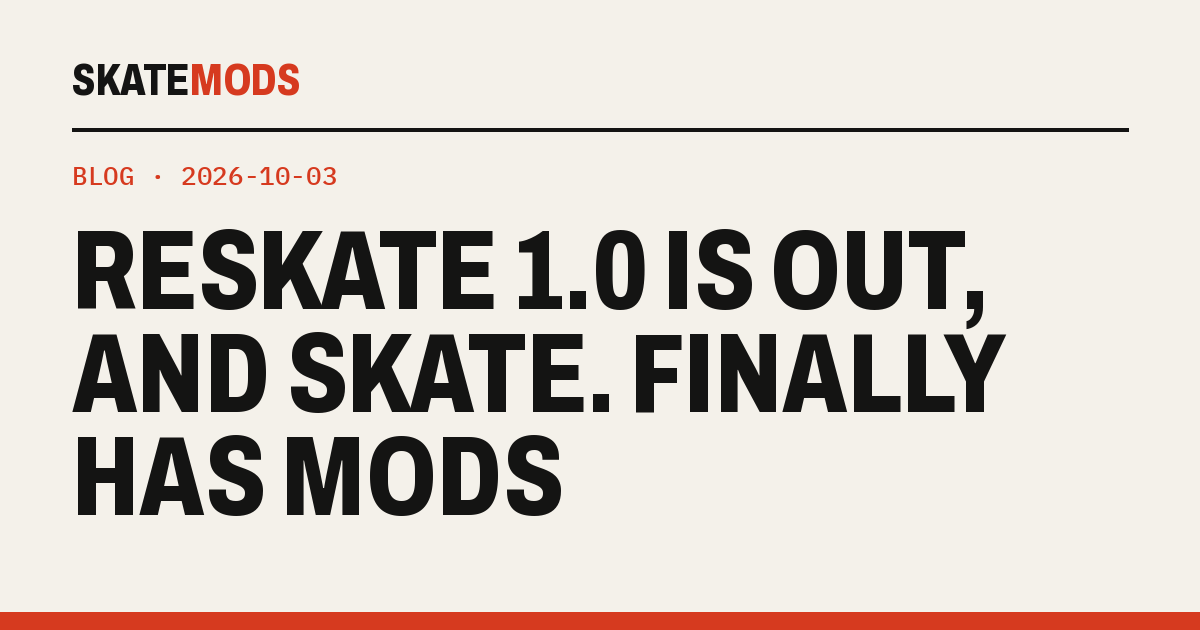
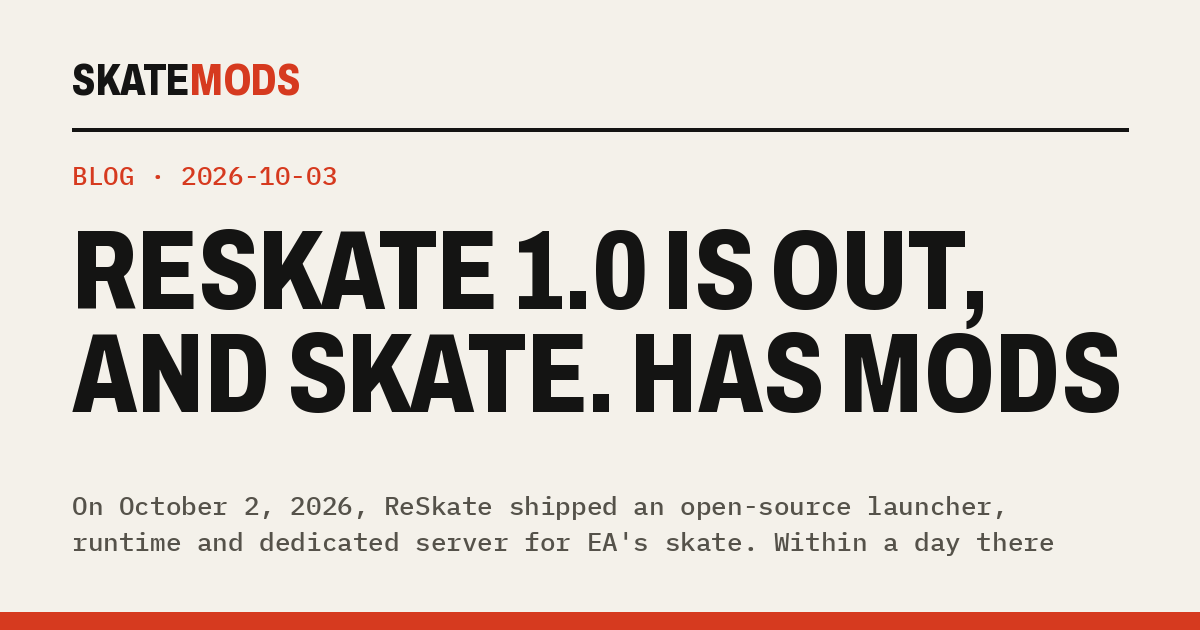
Slop pass: tighten prose site-wide, drop placeholder tiles, fix meta wrapping
Cut dramatic setups, contrast framing, rhetorical transitions and hype words
across guides, FAQ, games, histories, blog and page copy, with no change to
facts or links. Community: remove letter placeholders, split member/online
counts. Guides index: wider meta column. Clarify 216 vs 192 current mods.

Changed region(s): [[0.0617, 0.6937, 0.8325, 0.8746], [0.5242, 0.5127, 0.9558, 0.6635], [0.6475, 0.8444, 0.8942, 0.8746]]

diff --git a/apps/web/src/data/tools.ts b/apps/web/src/data/tools.ts
@@ -25,14 +25,14 @@ export const tools: Tool[] = [
   // Skate 3: ports
   { name: 'skate3recomp', by: 'mchughalex', game: 'skate-3', kind: 'port', open: true, url: 'https://github.com/mchughalex/skate3recomp', what: 'Native recompilation for Windows, Linux and macOS, with a D3D12/Vulkan renderer since v2.0.' },
   { name: 'SK8-Engine', by: 'Nakas', game: 'skate-3', kind: 'port', open: true, url: 'https://github.com/andrewnakas/SK8-Engine', what: 'The recompilation, extended toward an all-in-one cross-platform, multiplayer build.' },
-  { name: 'Skate3-Mobile', by: 'Buku313', game: 'skate-3', kind: 'port', open: true, url: 'https://github.com/Buku313/Skate3-Mobile', what: 'ARM64 Android build with Vulkan rendering. One APK, your own ISO.' },
+  { name: 'Skate3-Mobile', by: 'Buku313', game: 'skate-3', kind: 'port', open: true, url: 'https://github.com/Buku313/Skate3-Mobile', what: 'ARM64 Android build with Vulkan rendering, shipped as one APK that uses your own ISO.' },
   { name: 'skate3-android', by: 'Nakas', game: 'skate-3', kind: 'port', open: true, url: 'https://github.com/andrewnakas/skate3-android', what: 'Android shell for the recomp: setup, map packs and GPU driver management.' },
   { name: 'skate3-ios-setup', by: 'Nakas', game: 'skate-3', kind: 'port', open: true, url: 'https://github.com/andrewnakas/skate3-ios-setup', what: 'Build the recompilation for iOS from your own disc image.' },
   { name: 'Skate 3 Rust engine', by: 'SK8-ENGINE', game: 'skate-3', kind: 'port', open: true, url: 'https://github.com/SK8-ENGINE/skate-3-rust-engine', what: 'Rust and Bevy reimplementation with .skate maps, a Lua mod SDK, vehicles and multiplayer mods.' },
   { name: 'Skate 3 clean room (web)', by: 'Nakas', game: 'skate-3', kind: 'port', open: true, url: 'https://github.com/andrewnakas/skate3-cleanroom', what: 'The Rust engine on WebGPU with a regenerated asset pack, playable in a browser.' },
   { name: 'skate3-quest-ar', by: 'Nakas', game: 'skate-3', kind: 'port', open: true, url: 'https://github.com/andrewnakas/skate3-quest-ar', what: 'The Rust engine on Meta Quest 3 in passthrough AR: a miniature skater in your room.' },
   // Skate 3: maps
-  { name: 'Skate 3 Level Loader', by: 'Nakas', game: 'skate-3', kind: 'maps', open: true, url: 'https://github.com/andrewnakas/skate3-level-loader', what: 'Map library and launcher for the recomp. Import packs, click a map, skate.' },
+  { name: 'Skate 3 Level Loader', by: 'Nakas', game: 'skate-3', kind: 'maps', open: true, url: 'https://github.com/andrewnakas/skate3-level-loader', what: 'Map library and launcher for the recomp. Import packs, then pick a map to boot into it.' },
   { name: 'PS3 → X360 transcoder', by: 'Nakas', game: 'skate-3', kind: 'maps', open: true, url: 'https://github.com/andrewnakas/skate3-ps3-to-x360', what: 'Rebuilds PS3 map streams in Xbox 360 form and packages standalone DLC.' },
   { name: 'PS3 Map Importer', by: 'randyadr, Nakas, Dumbads', game: 'skate-3', kind: 'maps', open: true, url: 'https://github.com/andrewnakas/skate3-ps3-map-importer', what: 'Windows GUI: drop a PS3 map archive, get an installable recomp .big.' },
   { name: 'DumbadsSkate3ModdingTools', by: 'Dumbads (Ethanw05)', game: 'skate-3', kind: 'maps', open: true, url: 'https://github.com/Ethanw05/DumbadsSkate3ModdingTools', what: 'ArenaBuilder, DlcBuilder and ChallengeEditor: read and write arenas, build DLC.' },

diff --git a/apps/web/src/data/hubs.ts b/apps/web/src/data/hubs.ts
@@ -20,7 +20,7 @@ export const hubs: Hub[] = [
   { name: 'Session (crea-ture Studios)', game: 'session', scene: 'session', kind: 'discord', invite: 'session', what: 'The official Session: Skate Sim server, with channels for maps and mods.' },
   { name: 'THPSPro', game: 'thps-1-2', scene: 'thps-pro', kind: 'discord', invite: 'G9A8xWq9Hw', what: 'Mods for the THPS 1+2 and 3+4 remakes, and the THPSPro project.' },
   { name: 'THUG Pro community', game: 'tony-hawk-classic', scene: 'thug-pro', kind: 'discord', invite: 'KateaQP', what: 'The Discord linked from thugpro.com: online sessions, custom levels and help.' },
-  { name: 'ReSkate Thunderstore', game: 'skate-2025', kind: 'mods', url: 'https://thunderstore.io/c/reskate/', what: 'Every ReSkate mod. Browse it here on skate. mods, or in the ReSkate launcher.' },
+  { name: 'ReSkate Thunderstore', game: 'skate-2025', kind: 'mods', url: 'https://thunderstore.io/c/reskate/', what: 'Every ReSkate mod, browsable here on skate. mods or in the ReSkate launcher.' },
   { name: 'Skater XL on mod.io', game: 'skater-xl', scene: 'skater-xl', kind: 'mods', url: 'https://mod.io/g/skaterxl', what: 'Maps and gear for Skater XL, also available in the game\'s own Mod Browser.' },
   { name: 'THPSX forums', game: 'tony-hawk-classic', scene: 'thug-pro', kind: 'forum', url: 'https://thpsx.com/', what: 'The long-running Tony Hawk\'s community site, with forums, the THPSX podcast and THUG Pro history.' },
 ];

diff --git a/apps/web/src/data/skate3-timeline.ts b/apps/web/src/data/skate3-timeline.ts
@@ -128,7 +128,7 @@ export const timeline: Event[] = [
   {
     date: '2026-06-17', era: 'native',
     title: 'Skate 3 on Android',
-    body: 'An ARM64 recompilation with Vulkan rendering: one APK, your own ISO.',
+    body: 'An ARM64 recompilation with Vulkan rendering, shipped as one APK that uses your own ISO.',
     who: 'Buku313',
     source: 'https://github.com/Buku313/Skate3-Mobile',
   },

diff --git a/apps/web/src/content/blog/reskate-launch.md b/apps/web/src/content/blog/reskate-launch.md
@@ -1,5 +1,5 @@
 ---
-title: ReSkate 1.0 is out, and skate. finally has mods
+title: ReSkate 1.0 is out, and skate. has mods
 description: On October 2, 2026, ReSkate shipped an open-source launcher, runtime and dedicated server for EA's skate. Within a day there were custom maps from Skate 3, skate 2 and Skater XL, community servers, two hotfixes and nearly 2,900 people in its Discord.
 date: 2026-10-03
 author: skatemods
@@ -9,13 +9,13 @@ related: [guides/play-skate-with-reskate, guides/host-a-reskate-server, history/
 
 For a year, the answer to "can you mod the new skate.?" was no. EA's free-to-play revival is online-only, sits behind Javelin kernel anti-cheat, and changes with every live-service patch. Its user agreement calls mods unauthorized third-party programs. While the 2010 game got a native PC port and a fully writable world format, the newest game in the series stayed closed.
 
-That changed on **Friday, October 2, 2026**. [ReSkate](https://github.com/Dingo-Shenanigans/ReSkate), from the Dingo Shenanigans team led by **zeex64**, published its source in the morning and shipped **v1.0.0** that afternoon. "Welcome to ReSkate!" the announcement in [its Discord](https://discord.gg/Tkd5D2Y6EX) began. It called the project "a modding platform for skate.: play offline, skate custom maps, host lobbies with your friends and build your own spots, parks and skins."
+On **Friday, October 2, 2026**, [ReSkate](https://github.com/Dingo-Shenanigans/ReSkate), from the Dingo Shenanigans team led by **zeex64**, published its source in the morning and shipped **v1.0.0** that afternoon. "Welcome to ReSkate!" the announcement in [its Discord](https://discord.gg/Tkd5D2Y6EX) began. It called the project "a modding platform for skate.: play offline, skate custom maps, host lobbies with your friends and build your own spots, parks and skins."
 
 ## The trick: freeze the game
 
-ReSkate doesn't fight the live service. It sidesteps it. The launcher checks your Steam copy of skate. against **one pinned build** (Steam build `25414733`). If the game is missing or Steam has updated past that build, it signs in to Steam and downloads exactly the files it needs. Then it loads `ReSkate.dll` into the game. You play offline, with no EA servers involved, and your skater, outfits, unlocks and progress live on your PC.
+ReSkate leaves the live service alone. The launcher checks your Steam copy of skate. against **one pinned build** (Steam build `25414733`). If the game is missing or Steam has updated past that build, it signs in to Steam and downloads exactly the files it needs. Then it loads `ReSkate.dll` into the game. You play offline, with no EA servers involved, and your skater, outfits, unlocks and progress live on your PC.
 
-Freezing the game build is what makes everything else possible. Every mod targets the same build, every address the runtime patches is kept in a per-build table, and hooks check the bytes they expect before touching anything. When ReSkate moves to a new build, mods made for the old one are skipped with a message instead of breaking the game.
+Everything else depends on that frozen build. Every mod targets the same build, every address the runtime patches is kept in a per-build table, and hooks check the bytes they expect before touching anything. When ReSkate moves to a new build, mods made for the old one are skipped with a message instead of breaking the game.
 
 ## What shipped
 
@@ -29,9 +29,9 @@ In game, multiplayer means 32-player Steam lobbies, an in-game server browser, p
 
 ## Day one on Thunderstore
 
-The mod list from the first day says more than any feature list could. Thirteen mods went up on the [ReSkate Thunderstore](https://thunderstore.io/c/reskate/), and most of them are cities and parks from other games:
+Thirteen mods went up on the [ReSkate Thunderstore](https://thunderstore.io/c/reskate/) on the first day, and most of them are cities and parks from other games:
 
-- **[The full Skate 3 map](https://thunderstore.io/c/reskate/p/zeex64/Full_Skate_3_Map/)**, ported by zeex64. Port Carverton, in the engine of the game that replaced it. It was the most downloaded mod of day one.
+- **[The full Skate 3 map](https://thunderstore.io/c/reskate/p/zeex64/Full_Skate_3_Map/)**, ported by zeex64, puts Port Carverton in the engine of the game that replaced it. It was the most downloaded mod of day one.
 - **[New San Vanelona](https://thunderstore.io/c/reskate/p/brassy/Skate2Map/)** from skate 2, ported by brassy.
 - **[Losal Streets](https://thunderstore.io/c/reskate/p/TeamMeebs/Losal_Streets/)** from [Skater XL](/history/skater-xl/), by TeamMeebs.
 - Three maps by **Yaky**, a map maker the Skater XL scene already knows: [Shred Cavern](https://thunderstore.io/c/reskate/p/zeex64/Shred_Cavern_By_Yaky/), [The Lost Loop](https://thunderstore.io/c/reskate/p/zeex64/The_Lost_Loop_By_Yaky/), and [Desert Springs](https://thunderstore.io/c/reskate/p/memori/Desert_Springs/), ported from BMX Streets by memori.
@@ -42,13 +42,13 @@ The maps are built with ReSkate Studio, the project's map tool. Each one ships a
 
 ## The first 24 hours
 
-Launches break things, and ReSkate's fixes came fast. **1.0.1** made the launcher warn when Steam isn't running or signed in. Without Steam, PLAY quietly starts offline as "Unknown Player" with no multiplayer. That evening, **[1.0.2](https://github.com/Dingo-Shenanigans/ReSkate/releases/tag/v1.0.2)** fixed a loading crash on older graphics cards like the RX 580 by sizing map streaming memory to each card's VRAM, and made busy servers smoother by updating off-screen players less often. Dedicated servers update themselves once they're empty, so hosts didn't have to do anything.
+The first fixes came the same day. **1.0.1** made the launcher warn when Steam isn't running or signed in. Without Steam, PLAY quietly starts offline as "Unknown Player" with no multiplayer. That evening, **[1.0.2](https://github.com/Dingo-Shenanigans/ReSkate/releases/tag/v1.0.2)** fixed a loading crash on older graphics cards like the RX 580 by sizing map streaming memory to each card's VRAM, and made busy servers smoother by updating off-screen players less often. Dedicated servers update themselves once they're empty, so hosts didn't have to do anything.
 
 By the end of the day, over a thousand people had downloaded the release from GitHub, the full Skate 3 map had passed 750 downloads on Thunderstore, and the [ReSkate Discord](https://discord.gg/Tkd5D2Y6EX) was near **2,900 members**. By the next morning it had passed 3,400. The launch announcement had already answered the question everyone asked first, whether you can get banned: the project's FAQ says you can't. zeex64 also promised a Linux fix for the next day.
 
 ## Where it fits
 
-ReSkate is the newest chapter in a story this site keeps coming back to. Publishers move on and players keep the games alive: [PARTYMOD](/history/partymod/) and [THUG Pro](/history/thug-pro/) for the Tony Hawk's games, the [Skater XL](/history/skater-xl/) modders who built multiplayer before the studio did, and the [Skate 3](/history/skate-3/) scene that recompiled a 2010 console game into a native PC one. Some of the same people are at work again here. The groundwork happened around the Dumbads & SunJays Discord, where Skate 3's world format first became writable.
+ReSkate follows a pattern this site keeps coming back to. Publishers move on and players keep the games alive: [PARTYMOD](/history/partymod/) and [THUG Pro](/history/thug-pro/) for the Tony Hawk's games, the [Skater XL](/history/skater-xl/) modders who built multiplayer before the studio did, and the [Skate 3](/history/skate-3/) scene that recompiled a 2010 console game into a native PC one. Some of the same people are at work again here. The groundwork happened around the Dumbads & SunJays Discord, where Skate 3's world format first became writable.
 
 What's different this time is the target: a live game that EA is still developing. ReSkate is careful about that. It's a fan project "not affiliated with or endorsed by Electronic Arts or Full Circle." You need your own copy of the game, and the project says it's "NOT a replacement for the live game, a way to get paid cosmetics, or a place for leaks." The GPL covers ReSkate's code, not anything from skate. itself, and because it still runs EA's client, EA's terms still apply. The project's README also discloses that parts of its code and reverse-engineering notes were written with AI coding assistants, directed and tested by the maintainers.
 
@@ -60,5 +60,3 @@ What's different this time is the target: a live game that EA is still developin
 - **Mods:** [browse every skate. mod](/reskate/), updated live from Thunderstore.
 - **Talk:** the [ReSkate Discord](https://discord.gg/Tkd5D2Y6EX) for help, bug reports and mod releases.
 - **Download:** [github.com/Dingo-Shenanigans/ReSkate](https://github.com/Dingo-Shenanigans/ReSkate/releases/latest). Get it there, not from a mirror.
-
-skate. took a year to open up, and it was worth the wait.

diff --git a/apps/web/src/content/communities/reskate.md b/apps/web/src/content/communities/reskate.md
@@ -112,7 +112,7 @@ milestones:
     source: https://github.com/andrewnakas/reskate-trainer/releases
   - date: 2026-10-03
     title: '1.0.4: mods merge before PLAY'
-    body: The launcher merges mods before the game starts and names any mod it couldn't merge, instead of leaving it out silently three minutes into a loading screen. The mod manager is rebuilt in a bigger window, settings changed in game finally stick, and Steam is detected under Proton on Linux.
+    body: The launcher merges mods before the game starts and names any mod it couldn't merge, instead of leaving it out silently three minutes into a loading screen. The mod manager is rebuilt in a bigger window, settings changed in game now stick, and Steam is detected under Proton on Linux.
     who: AyeZeeBB
     source: https://github.com/Dingo-Shenanigans/ReSkate/releases/tag/v1.0.4
   - date: 2026-10-04
@@ -162,7 +162,7 @@ links:
 
 ## A way around the live service
 
-[skate.](/games/skate-2025/) is the hardest skate game to mod. It's online-only, free-to-play, protected by [EA Javelin anti-cheat](https://www.ea.com/news/ea-javelin-anticheat-2026-update), and updated constantly, and EA's [user agreement](https://www.ea.com/legal/user-agreement) treats mods as unauthorized third-party programs. ReSkate doesn't try to mod that live game. Its launcher checks your Steam install against one specific build of skate. (Steam build `25414733`), downloads exactly that build with DepotDownloader if it has to, and loads a community runtime, `ReSkate.dll`, on top. Every mod targets the same fixed version of the game, and nobody connects to EA's servers.
+[skate.](/games/skate-2025/) is the hardest skate game to mod. It's online-only, free-to-play, protected by [EA Javelin anti-cheat](https://www.ea.com/news/ea-javelin-anticheat-2026-update), and updated constantly, and EA's [user agreement](https://www.ea.com/legal/user-agreement) treats mods as unauthorized third-party programs. ReSkate leaves that live game alone. Its launcher checks your Steam install against one specific build of skate. (Steam build `25414733`), downloads exactly that build with DepotDownloader if it has to, and loads a community runtime, `ReSkate.dll`, on top. Every mod targets the same fixed version of the game, and nobody connects to EA's servers.
 
 The game's own settings and saves live in a separate folder from the normal game's, and your skater, outfits, unlocks and progress are kept on your PC ([README](https://github.com/Dingo-Shenanigans/ReSkate#readme)).
 
@@ -174,7 +174,7 @@ ReSkate went public on **October 2, 2026**. The [source](https://github.com/Ding
 - **`ReSkate.dll`** is the runtime the launcher loads into the game.
 - **`ReSkateServer.exe`** is a headless dedicated server that needs neither the game nor Steam installed.
 
-The launch announcement on the [ReSkate Discord](https://discord.gg/Tkd5D2Y6EX) called it "a modding platform for skate.: play offline, skate custom maps, host lobbies with your friends and build your own spots, parks and skins." By that night the server had nearly 2,900 members, and by the next morning more than 3,400. On October 5 it passed **19,000**. The announcement also answered the most-asked question: can you get banned? The project's FAQ says you can't. A Linux fix was promised for the following day.
+The launch announcement on the [ReSkate Discord](https://discord.gg/Tkd5D2Y6EX) called it "a modding platform for skate.: play offline, skate custom maps, host lobbies with your friends and build your own spots, parks and skins." By that night the server had nearly 2,900 members, and by the next morning more than 3,400. On October 5 it passed **19,000**. The announcement also answered the most-asked question, whether you can get banned: the project's FAQ says you can't. A Linux fix was promised for the following day.
 
 ## What's in it
 
@@ -208,9 +208,9 @@ Mods are distributed through a [Thunderstore community](https://thunderstore.io/
 | [gm_mcdonalds](https://thunderstore.io/c/reskate/p/crowkrow/gm_mcdonalds/), [Bo2 Grind](https://thunderstore.io/c/reskate/p/relsmodding/Bo2_Grind/) | crowkrow, relsmodding | Maps from Garry's Mod and Black Ops 2 |
 | [Supreme Box Tee](https://thunderstore.io/c/reskate/p/akia47/SupremeBoxTee/) | akia47 | A custom cosmetic |
 
-The list says a lot about who showed up. Skate 3, skate 2, Skater XL and BMX Streets maps all landed in skate. on day one, made by people from the [Skate 3](/history/skate-3/) and [Skater XL](/history/skater-xl/) scenes.
+Skate 3, skate 2, Skater XL and BMX Streets maps all landed in skate. on day one, made by people from the [Skate 3](/history/skate-3/) and [Skater XL](/history/skater-xl/) scenes.
 
-Then it exploded. By **October 5** there were **216 mods** and more than **326,000 downloads**. Maps lead the chart, but cosmetics (whole Carhartt, Nike SB and Supreme collections, and packs of hundreds of brand colourways) and soundtracks came close behind:
+By **October 5** there were **216 mods** and more than **326,000 downloads**. Maps lead the chart, but cosmetics (whole Carhartt, Nike SB and Supreme collections, and packs of hundreds of brand colourways) and soundtracks came close behind:
 
 | Mod | By | Downloads (Oct 5) |
 |---|---|---|

diff --git a/apps/web/src/content/communities/skate-3.md b/apps/web/src/content/communities/skate-3.md
@@ -150,7 +150,7 @@ Skate 3 shipped in 2010 on PS3 and Xbox 360 only, and EA Black Box closed in 201
 
 RPCS3 opened the game to anyone with a PC and their own copy. GHFear's [2019 walkthrough](https://www.youtube.com/watch?v=JG-TRIlTzpQ) came out of "months of work" on EA's texture and model formats. Shellywell123 built the next layer: a [custom park swapper](https://github.com/Shellywell123/RPCS3_Skate3_Custom_Parks_Swapper) for players trading parks as save files, then [Skate 3 Texture Tools](https://github.com/Shellywell123/Skate-3-Texture-Tools), which credits "GHFear's Youtube for the initial manual tutorial!" Others added a trainer ([CH3AT](https://github.com/ckosmic/CH3AT)), board graphics ([S3GE](https://github.com/devHazz/s3ge)), and GHFear's [RW4ArchiveTool](https://github.com/GHFear/RW4ArchiveTool) for the game's archives.
 
-In June 2020 the **EA Skate Modding** Discord opened, and it became the scene's home for years. It passed 86,000 members by 2026 ([invite](https://discord.com/invite/aQxCHpdH2M)). wispp released the [S3M](https://www.youtube.com/watch?v=2JMoR7x5XDE) mod menu there in 2021, then the [Native Menu](https://www.youtube.com/watch?v=EuQUM_Ez2cw). The Native Menu is drawn by the game itself, and it became a widely used way to load mods on RPCS3. The Mad Man's [ragdoll mod](https://www.youtube.com/watch?v=ewxUfeiz2NY) went viral. In 2023, tuukkas, GHFear, wispp and others brought [Skate 2's San Vanelona](https://www.youtube.com/watch?v=9-s0DX1-RKo) into Skate 3, followed by its DLC maps. That was years of map work before the world format was fully writable. Meanwhile the [Skate Modding Team](https://github.com/Skate-Modding-Team) started documenting the file formats.
+In June 2020 the **EA Skate Modding** Discord opened, and it became the scene's home for years. It passed 86,000 members by 2026 ([invite](https://discord.com/invite/aQxCHpdH2M)). wispp released the [S3M](https://www.youtube.com/watch?v=2JMoR7x5XDE) mod menu there in 2021, then the [Native Menu](https://www.youtube.com/watch?v=EuQUM_Ez2cw). The Native Menu is drawn by the game itself, and it became a widely used way to load mods on RPCS3. The Mad Man's [ragdoll mod](https://www.youtube.com/watch?v=ewxUfeiz2NY) went viral. In 2023, tuukkas, GHFear, wispp and others brought [Skate 2's San Vanelona](https://www.youtube.com/watch?v=9-s0DX1-RKo) into Skate 3, followed by its DLC maps, years before the world format was fully writable. Meanwhile the [Skate Modding Team](https://github.com/Skate-Modding-Team) started documenting the file formats.
 
 Getting back online took the longest. [Skateboard3Server](https://github.com/hallofmeat/Skateboard3Server) got as far as authentication in 2020. In June 2025, wispp's proxy got RPCS3 players [online for the first time](https://www.youtube.com/watch?v=yxnVyy8E8zc), and a Skate RPCS3 Online Discord grew past 10,000 members. In 2026 wispp followed it with a [full Blaze server](https://github.com/skate6743/Skate3BlazeServer). It built on Aim4Kill's BlazeSDK, gamingrobot's TDF documentation and Tratos's Blaze emulator, and BWKingsnake made a config tool so players could connect. skate6743's [Arcadia fork](https://github.com/skate6743/arcadia-skate) did the same for skate and skate 2.
 
@@ -168,6 +168,6 @@ In 2026, Alex McHugh released [skate3recomp](https://github.com/mchughalex/skate
 
 ## Port Carverton in the new game
 
-On October 2, 2026, the day [ReSkate](/history/reskate/) opened EA's 2025 skate. to mods, zeex64 put [the full Skate 3 map](https://thunderstore.io/c/reskate/p/zeex64/Full_Skate_3_Map/) on its Thunderstore. Port Carverton became the platform's most downloaded mod on day one, ahead of brassy's port of skate 2's [New San Vanelona](https://thunderstore.io/c/reskate/p/brassy/Skate2Map/). SunJay, who co-runs the Skate 3 modding Discord, shipped ReSkate mods that same day. The 2010 game's scene had become the newest one's starting point.
+On October 2, 2026, the day [ReSkate](/history/reskate/) opened EA's 2025 skate. to mods, zeex64 put [the full Skate 3 map](https://thunderstore.io/c/reskate/p/zeex64/Full_Skate_3_Map/) on its Thunderstore. Port Carverton became the platform's most downloaded mod on day one, ahead of brassy's port of skate 2's [New San Vanelona](https://thunderstore.io/c/reskate/p/brassy/Skate2Map/). SunJay, who co-runs the Skate 3 modding Discord, shipped ReSkate mods that same day.
 
 skatemods.com exists to tie these together. A map uploaded once converts to every platform, and every tool above is credited to the people who built it.

diff --git a/apps/web/src/content/communities/session.md b/apps/web/src/content/communities/session.md
@@ -52,7 +52,7 @@ milestones:
     source: https://www.pcgamer.com/session-mods-custom-maps/
   - date: 2020-02-19
     title: The developer talks to modders
-    body: crea-ture's patch notes warn that mods made before the update will crash, and tell modders to unpatch the EZPZ patch first. It's an acknowledgement of the scene, but not official support.
+    body: crea-ture's patch notes warn that mods made before the update will crash, and tell modders to unpatch the EZPZ patch first. The notes acknowledge the scene without offering official support.
     source: https://steamcommunity.com/games/861650/announcements/detail/2578811485588754826
   - date: 2019-11-07
     title: Session Mod Manager
@@ -88,9 +88,9 @@ links:
 
 ## Players got there first
 
-Before Session opened to early access, crea-ture Studios [told players](https://steamcommunity.com/app/861650/discussions/0/2763442118821365907/) that modding had been a goal "ever since day one", but that official tools would come "eventually". The community didn't wait. Session is an Unreal Engine 4 game, so map makers could build levels in the regular UE4 editor. What they needed was a way to make the game load those levels.
+Before Session opened to early access, crea-ture Studios [told players](https://steamcommunity.com/app/861650/discussions/0/2763442118821365907/) that modding had been a goal "ever since day one", but that official tools would come "eventually". Players started without them. Session is an Unreal Engine 4 game, so map makers could build levels in the regular UE4 editor. What they needed was a way to make the game load those levels.
 
-Eight days into [early access](https://en.wikipedia.org/wiki/Session:_Skate_Sim), rodriada000 released [Session Map Switcher](https://github.com/rodriada000/SessionMapSwitcher/releases/tag/v1.0.0), which switched maps while the game was running. By October, [PC Gamer](https://www.pcgamer.com/session-mods-custom-maps/) was writing about THPS2 and Skate 3 levels rebuilt in Session, "where the modding community is just getting started". Several of those levels, Skate 3's Black Box Distribution park and THPS2's School II, were by GHFear, who also became the largest contributor to Illusory's [Unreal Mod Unlocker](https://github.com/IllusorySoftware/UnrealModUnlocker-Public). The same person shows up in the Skate 3 and THPSPro stories.
+Eight days into [early access](https://en.wikipedia.org/wiki/Session:_Skate_Sim), rodriada000 released [Session Map Switcher](https://github.com/rodriada000/SessionMapSwitcher/releases/tag/v1.0.0), which switched maps while the game was running. By October, [PC Gamer](https://www.pcgamer.com/session-mods-custom-maps/) was writing about THPS2 and Skate 3 levels rebuilt in Session, "where the modding community is just getting started". Several of those levels, Skate 3's Black Box Distribution park and THPS2's School II, were by GHFear, who also became the largest contributor to Illusory's [Unreal Mod Unlocker](https://github.com/IllusorySoftware/UnrealModUnlocker-Public). GHFear also appears in the Skate 3 and THPSPro histories.
 
 ## A tool that kept up with the game
 

diff --git a/apps/web/src/content/blog/reskate-first-three-days.md b/apps/web/src/content/blog/reskate-first-three-days.md
@@ -8,7 +8,7 @@ games: [skate-2025]
 related: [history/reskate, guides/play-skate-with-reskate, guides/host-a-reskate-server, blog/reskate-launch]
 ---
 
-When [ReSkate 1.0 came out](/blog/reskate-launch/) on October 2, its Discord had about 2,900 people and its Thunderstore had thirteen mods. Three days later the Discord has **19,182 members** ([invite API](https://discord.com/api/v9/invites/Tkd5D2Y6EX?with_counts=true), October 5), the [Thunderstore](https://thunderstore.io/c/reskate/) lists **216 mods** with more than **326,000 downloads**, and the [GitHub repository](https://github.com/Dingo-Shenanigans/ReSkate) has 339 stars and 48 forks. In between came eleven releases. Here's what changed, release by release.
+When [ReSkate 1.0 came out](/blog/reskate-launch/) on October 2, its Discord had about 2,900 people and its Thunderstore had thirteen mods. Three days later the Discord has **19,182 members** ([invite API](https://discord.com/api/v9/invites/Tkd5D2Y6EX?with_counts=true), October 5), the [Thunderstore](https://thunderstore.io/c/reskate/) lists **216 mods** with more than **326,000 downloads** (192 of them current, the rest deprecated or marked NSFW), and the [GitHub repository](https://github.com/Dingo-Shenanigans/ReSkate) has 339 stars and 48 forks. Eleven releases came in between.
 
 ## The fixes people asked for
 
@@ -45,12 +45,12 @@ Ten of the 216 are tagged "AI Generated" on Thunderstore. Several authors say th
 
 ## What's still broken
 
-Moving this fast has costs, and the [issue tracker](https://github.com/Dingo-Shenanigans/ReSkate/issues) shows them. Windows Defender started flagging the download as `Behavior:Win32/DefenseEvasion.A!ml`, a machine-learning guess set off by a DLL loading into a game. Some board-graphics and map mods crash on 1.1.0 until they're reinstalled. On Linux under Proton, custom maps and servers running them hang on the loading screen since 1.0.8. Our [guide](/guides/play-skate-with-reskate/#known-issues-111) lists the workarounds.
+The [issue tracker](https://github.com/Dingo-Shenanigans/ReSkate/issues) shows what the pace has cost. Windows Defender started flagging the download as `Behavior:Win32/DefenseEvasion.A!ml`, a machine-learning guess set off by a DLL loading into a game. Some board-graphics and map mods crash on 1.1.0 until they're reinstalled. On Linux under Proton, custom maps and servers running them hang on the loading screen since 1.0.8. Our [guide](/guides/play-skate-with-reskate/#known-issues-111) lists the workarounds.
 
 ## Where to start
 
-- New to it? [Play skate. with ReSkate](/guides/play-skate-with-reskate/) is up to date for 1.1.1, including Linux.
-- Hosting? [Host a ReSkate server](/guides/host-a-reskate-server/) covers Windows, Linux and global bans.
+- To play: [Play skate. with ReSkate](/guides/play-skate-with-reskate/) is up to date for 1.1.1, including Linux.
+- To host: [Host a ReSkate server](/guides/host-a-reskate-server/) covers Windows, Linux and global bans.
 - The full story, with everyone who built it, is on the [ReSkate history page](/history/reskate/).
 
 All figures are as of October 5, 2026.

diff --git a/apps/web/src/content/guides/play-skate-with-reskate.md b/apps/web/src/content/guides/play-skate-with-reskate.md
@@ -26,7 +26,7 @@ updated: 2026-10-05
 5. If the game is missing, or Steam has updated it past that build, sign in when asked, with a QR code from the Steam app or your username, password and Steam Guard. The launcher downloads only the files it needs.
 6. Press **PLAY**.
 
-ReSkate supports **one game build at a time** (Steam build `25414733`, unchanged through 1.1.1). Steam will keep updating your normal install. That's fine, because the launcher puts the supported build back. ReSkate keeps its own settings and saves in `%LOCALAPPDATA%\ReSkate\`, apart from the normal game's.
+ReSkate supports **one game build at a time** (Steam build `25414733`, unchanged through 1.1.1). Steam will keep updating your normal install, and the launcher puts the supported build back. ReSkate keeps its own settings and saves in `%LOCALAPPDATA%\ReSkate\`, apart from the normal game's.
 
 ## Controls
 
@@ -40,7 +40,7 @@ You can rebind the menu and console keys in the launcher's Settings.
 
 ## Add mods
 
-Browse everything that's out on [skate. mods](/reskate/), which lists the ReSkate Thunderstore live. To install, the easiest way is the launcher's **MODS** page. Browse the [ReSkate Thunderstore](https://thunderstore.io/c/reskate/) and click install, or drag a mod `.zip` or folder onto the window.
+Browse everything that's out on [skate. mods](/reskate/), which lists the ReSkate Thunderstore live. Install them from the launcher's **MODS** page: browse the [ReSkate Thunderstore](https://thunderstore.io/c/reskate/) and click install, or drag a mod `.zip` or folder onto the window.
 
 **MY MODS** lists what you have, with each mod's size on disk, a search box, a filter and a switch per mod. Tick several (Shift-click and Ctrl+A work) to enable, disable, update or uninstall them together. When Thunderstore has newer versions, the PLAY tile shows a count like "2 MOD UPDATES" and asks before launching without them.
 
@@ -76,7 +76,7 @@ The HUD, the jump read-out and the LB + RB controller shortcuts start off. Onlin
 ## Skate with friends
 
 - **Steam lobby.** From the Multiplayer menu, host a lobby for up to 32 players. Make it public, or share its code, optionally with a password. Since 1.0.9 lobbies have parties like dedicated servers do: invite, join, leave, kick and promote, with `/p` for party chat.
-- **Dedicated servers.** Open **Multiplayer → Servers** to browse community servers. Want your own? See [Host a ReSkate server](/guides/host-a-reskate-server/).
+- **Dedicated servers.** Open **Multiplayer → Servers** to browse community servers. To run your own, see [Host a ReSkate server](/guides/host-a-reskate-server/).
 - In multiplayer you get proximity voice, text chat with emotes, parties, throwdowns (Jam, Spot Battle and S.K.A.T.E.) and co-op challenges.
 
 To join a server running a custom map, you need the same map mod installed, and the same ReSkate version as the server.

diff --git a/apps/web/src/content/communities/skater-xl.md b/apps/web/src/content/communities/skater-xl.md
@@ -150,9 +150,9 @@ Skater XL entered [early access](https://en.wikipedia.org/wiki/Skater_XL) in Dec
 
 ## The studio leans in
 
-Easy Day Studios embraced the scene more fully than most. Before 1.0, it [announced](https://steamstore-a.akamaihd.net/news/externalpost/steam_community_announcements/3444639924512737225) that three of the most popular community maps would ship in the game: Jean-Olive's "Streets", Pactole's "Hudland" and a map by Theo. It also said it had hired map creator Theo and programmer Kiwi, creator of the replay editor, as official team members. Through the scene, the studio said, it had found people with "a unique blend of both skateboarding and game development knowledge that might have been impossible to find through traditional means."
+Easy Day Studios worked closely with the scene. Before 1.0, it [announced](https://steamstore-a.akamaihd.net/news/externalpost/steam_community_announcements/3444639924512737225) that three of the most popular community maps would ship in the game: Jean-Olive's "Streets", Pactole's "Hudland" and a map by Theo. It also said it had hired map creator Theo and programmer Kiwi, creator of the replay editor, as official team members. Through the scene, the studio said, it had found people with "a unique blend of both skateboarding and game development knowledge that might have been impossible to find through traditional means."
 
-The same post pointed out a problem: in Discord, a creator's "hard work can get buried just days after it's been launched." The fix came in [update 1.1](https://steamstore-a.akamaihd.net/news/externalpost/steam_community_announcements/3917534300074086855), a mod.io-powered browser in the main menu on PC, PlayStation and Xbox. Console players could finally get community maps and gear, and the browser passed [a million downloads in a single day](https://www.dualshockers.com/skater-xl-hits-over-1-million-mods-in-day-through-modding-platform/). Script mods stayed PC-only. Gear makers kept pushing with MCBTay's [XLGearModifier](https://github.com/MCBTay/XLGearModifier), which adds new meshes to the gear menu.
+The same post pointed out a problem: in Discord, a creator's "hard work can get buried just days after it's been launched." The fix came in [update 1.1](https://steamstore-a.akamaihd.net/news/externalpost/steam_community_announcements/3917534300074086855), a mod.io-powered browser in the main menu on PC, PlayStation and Xbox. Console players could now get community maps and gear, and the browser passed [a million downloads in a single day](https://www.dualshockers.com/skater-xl-hits-over-1-million-mods-in-day-through-modding-platform/). Script mods stayed PC-only. Gear makers added MCBTay's [XLGearModifier](https://github.com/MCBTay/XLGearModifier), which adds new meshes to the gear menu.
 
 ## Official multiplayer
 

diff --git a/apps/web/src/content/faq/recomp-vs-emulator.md b/apps/web/src/content/faq/recomp-vs-emulator.md
@@ -16,13 +16,13 @@ updated: 2026-10-01
 
 A static recompiler does the translation **ahead of time**. [XenonRecomp](https://github.com/hedge-dev/XenonRecomp) "converts Xbox 360 executables into C++ code, which can then be recompiled for any platform". The [rexglue SDK](https://github.com/rexglue/rexglue-sdk) that Skate 3 uses describes the same idea: "Rather than interpreting or JIT-compiling PPC instructions at runtime, ReXGlue … generates C++ source code ahead of time."
 
-Code alone isn't enough. XenonRecomp's README warns that the output "is not going to function correctly without a runtime backing it", meaning something has to replace the console's graphics, audio and system calls. That runtime is most of the work in a recomp project, and much of it builds on Xenia's research ([XenonRecomp credits](https://github.com/hedge-dev/XenonRecomp)).
+The generated code also needs support code. XenonRecomp's README warns that the output "is not going to function correctly without a runtime backing it", meaning something has to replace the console's graphics, audio and system calls. That runtime is most of the work in a recomp project, and much of it builds on Xenia's research ([XenonRecomp credits](https://github.com/hedge-dev/XenonRecomp)).
 
 ## What that means for Skate 3
 
-[skate3recomp](https://github.com/mchughalex/skate3recomp) is "an unofficial native recompilation of the Xbox 360 version of Skate 3, supporting Windows, Linux, and macOS." Since v2.0 it doesn't emulate the GPU at all. It uses "a native renderer built directly on Direct3D 12 and Vulkan", which the README says delivers more than twice the frame rate of the emulated renderer at roughly a quarter of the GPU power draw.
+[skate3recomp](https://github.com/mchughalex/skate3recomp) is "an unofficial native recompilation of the Xbox 360 version of Skate 3, supporting Windows, Linux, and macOS." Since v2.0 it skips GPU emulation and uses "a native renderer built directly on Direct3D 12 and Vulkan", which the README says delivers more than twice the frame rate of the emulated renderer at roughly a quarter of the GPU power draw.
 
-What it doesn't do is include the game. "The project does not include Skate 3 retail game files", so you point it at the disc image of your own Xbox 360 copy. The Android, iOS, PS4 and web builds listed in the [Skate 3 history](/history/skate-3/) all build on this recompilation.
+It doesn't include the game: "The project does not include Skate 3 retail game files", so you point it at the disc image of your own Xbox 360 copy. The Android, iOS, PS4 and web builds listed in the [Skate 3 history](/history/skate-3/) all build on this recompilation.
 
 | | Emulator (RPCS3, Xenia) | Recomp (skate3recomp) |
 |---|---|---|

diff --git a/apps/web/src/content/communities/thug-pro.md b/apps/web/src/content/communities/thug-pro.md
@@ -54,7 +54,7 @@ milestones:
     source: https://tonyhawkgames.fandom.com/wiki/THUG_Pro
   - date: "2012"
     title: A scene that was falling apart
-    body: According to co-creator morten, most official servers were gone and players were scattered across games and platforms. THUG Pro started as the fix.
+    body: According to co-creator morten, most official servers were gone and players were scattered across games and platforms, so THUG Pro set out to bring them back together.
     who: morten
     source: https://www.vice.com/en/article/tony-hawk-pro-skater-fans-are-keeping-the-series-alive-with-mods/
   - date: 2013-08-10
@@ -71,7 +71,7 @@ milestones:
     source: https://tonyhawkgames.fandom.com/wiki/THUG_Pro
   - date: 2014-12-08
     title: PS2 controls, AutoServer and more
-    body: A huge update adds the full PS2 control layout, THUG1-style drift, airshuffle, AutoServer hosting, new game modes and a new launcher.
+    body: This update adds the full PS2 control layout, THUG1-style drift, airshuffle, AutoServer hosting, new game modes and a new launcher.
     source: https://tonyhawkgames.fandom.com/wiki/THUG_Pro
   - date: 2015-04-26
     title: Project 8 levels
@@ -133,7 +133,7 @@ When *Pro Skater 5* flopped in 2015, [reviewers held THUG Pro up](https://en.wik
 
 ## Players start building
 
-Version 0.6 in [June 2018](https://thpsx.com/thugpro-update-0-6-0-0/) changed the relationship between the mod and its players by adding custom levels and soundtracks. The Blender tooling arrived at the same time. asdf's io_thug_tools was the first public plugin. denetii's [io_thps_scene](https://thpsx.com/forums/index.php?topic=930.0) built on it, and Ksk integrated the new rendering and material effects. Together they let anyone with Blender ship a park. The [0.6 release notes](http://thugpro.com/post/175316723159) read like a credits roll, with thanks to modelers, sprite and font makers, and Chase Sechrist for helping "re-ignite others interest In THPS modding."
+Version 0.6 in [June 2018](https://thpsx.com/thugpro-update-0-6-0-0/) added custom levels and soundtracks, so players could build for the mod themselves. The Blender tooling arrived at the same time. asdf's io_thug_tools was the first public plugin. denetii's [io_thps_scene](https://thpsx.com/forums/index.php?topic=930.0) built on it, and Ksk integrated the new rendering and material effects. Together they let anyone with Blender ship a park. The [0.6 release notes](http://thugpro.com/post/175316723159) read like a credits roll, with thanks to modelers, sprite and font makers, and Chase Sechrist for helping "re-ignite others interest In THPS modding."
 
 ## Today
 
